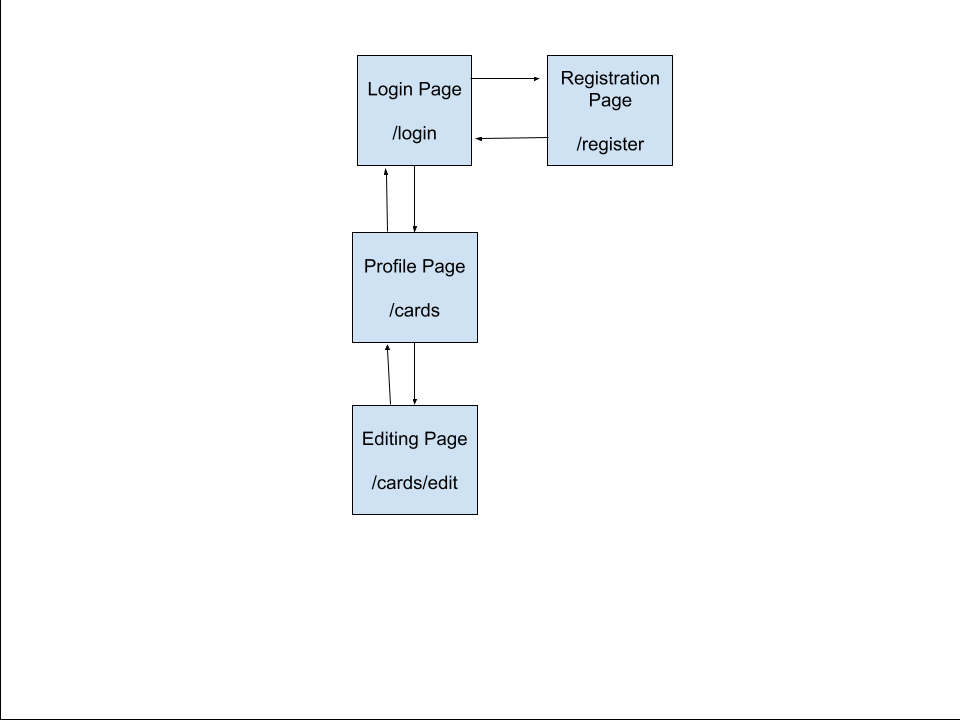
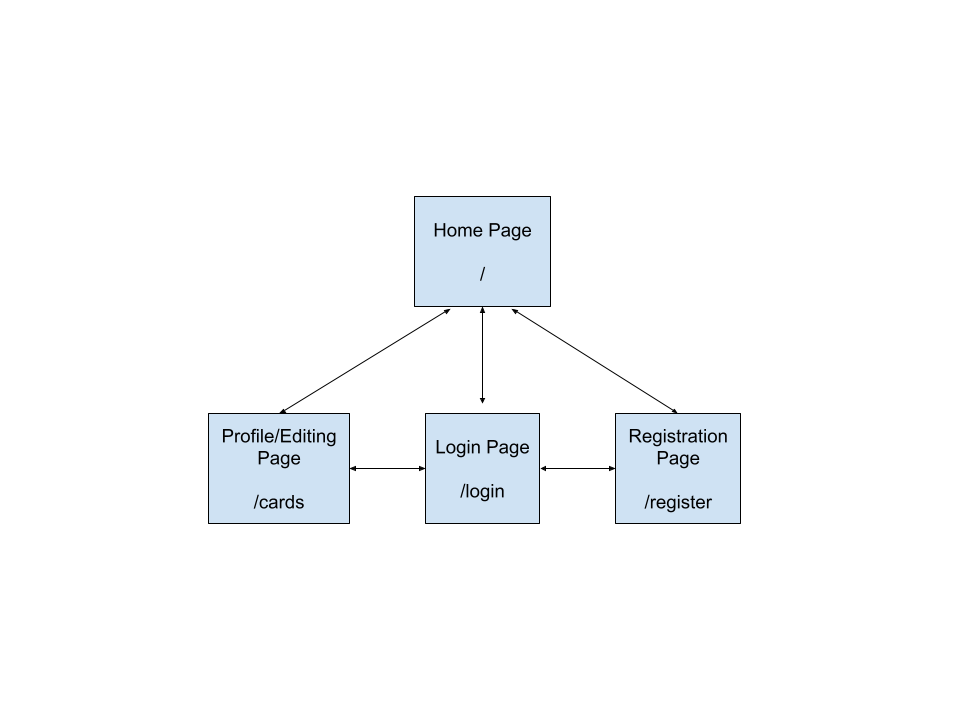
Updated README

diff --git a/README.md b/README.md
@@ -1,14 +1,12 @@
-The content below is an example project proposal / requirements document. Replace the text below the lines marked "__TODO__" with details specific to your project. Remove the "TODO" lines.
-
 # ShapeCards
 
 ## Overview
 
 Can't seem to remember your favorite color and shapes? Want to create and save a cool graphic?
 
-ShapeEditor is a web app that will allow users to create cards filled with their favorite shape and color. Users can register and login. Once they're logged in, they can modify their favorite drawing by adding multiple shapes and colors, along with its position.
+ShapeEditor is a web app that will allow users to create cards filled with their favorite shape and color. Users can register and login. Once they're logged in, they can modify their cards by adding multiple shapes and colors, along with its position.
 
-ShapeEditor is like the new Photoshop, except you can't change the background color, can't edit previously added shapes, or upload images to edit.
+ShapeEditor is like the new Photoshop, except you can't change the background color, can't edit previously added shapes, upload images to edit, or use any other functional tool that Photoshop provides. (Basically it's a better Photoshop)
 
 ## Data Model
 
@@ -39,31 +37,30 @@ An Example Card with Embedded Shapes:
     { type: "square", pos: {x: "50", y: "50"}, color: {r: "127", g: "127", b: "127"}},
     { type: "circle", pos: {x: "20", y: "70"}, color: {r: "127", g: "127", b: "127"}},
   ],
+  size: "27",
   createdAt: // timestamp
 }
 ```
 
-
-## [Link to Commented First Draft Schema](db.mjs) 
-
-(__TODO__: create a first draft of your Schemas in db.mjs and link to it)
+## [Link to Commented Schema](db.mjs) 
 
 ## Wireframes
-
-/cards - profile page that shows all cards
-
-![list create](documentation/profile_wf.png)
-
-/cards/edit - page for creating and editing cards
-
-![list](documentation/editor_wf.png)
+/ - home page with hyperlinks to profile, login, and registration pages
+![home page "/"](documentation/index.png)
 
 /login - page for logging in
 
-![list](documentation/login_wf.png)
+![list](documentation/login.png)
 
 /register - page for registering
-![list](documentation/register_wf.png)
+![list](documentation/register.png)
+
+/cards - profile page that shows all cards as well as an editor
+
+View Cards
+![profile page "/cards"](documentation/profile.png)
+Card Editor
+![card editor "/cards"](documentation/cardEditor.png)
 
 ## Site map
 
@@ -73,18 +70,17 @@ An Example Card with Embedded Shapes:
 
 1. as non-registered user, I can register a new account with the site
 2. as a user, I can log in to the site
-3. as a user, I can create a new card
-4. as a user, I can view all of my cards in a list
+3. as a user, I can view all of my cards in a list
+4. as a user, I can create a new card
 5. as a user, I can edit an existing card
-6. as a user, I can set a profile pic using an existing card
+5. as a user, I can delete an existing card
 
 ## Research Topics
-
-(__TODO__: the research topics that you're planning on working on along with their point values... and the total points of research topics listed)
-
 * (5 points) Integrate user authentication
     * I'm going to be using passport for user authentication
-    * And account has been made for testing; I'll email you the password
+    * You can simply register a new account
+    * See http://linserv1.cims.nyu.edu:21207/register for registration page
+    * http://linserv1.cims.nyu.edu:21207/login for login page
 * (3 points) Canvas API
     * HTML/Javascript to actually create the cards using the canvas library
 * (2 points) Tailwind
@@ -93,15 +89,13 @@ An Example Card with Embedded Shapes:
 10 points total out of 8 required points
 
 
-## [Link to Initial Main Project File](app.mjs) 
-
-(__TODO__: create a skeleton Express application with a package.json, app.mjs, views folder, etc. ... and link to your initial app.mjs)
+## [Link to Main Project Server File](app.mjs) 
 
 ## Annotations / References Used
 
 (__TODO__: list any tutorials/references/etc. that you've based your code off of)
 
-1. [passport.js authentication docs](http://passportjs.org/docs) - (add link to source code that was based on this)
-2. [tutorial on vue.js](https://vuejs.org/v2/guide/) - (add link to source code that was based on this)
-3. https://heynode.com/tutorial/authenticate-users-node-expressjs-and-passportjs/
+1. [passport.js authentication docs](http://passportjs.org/docs)
+3. [passport.js express tutorial](https://heynode.com/tutorial/authenticate-users-node-expressjs-and-passportjs/)
+3. [tailwind documentation](https://tailwindcss.com/docs)
 
